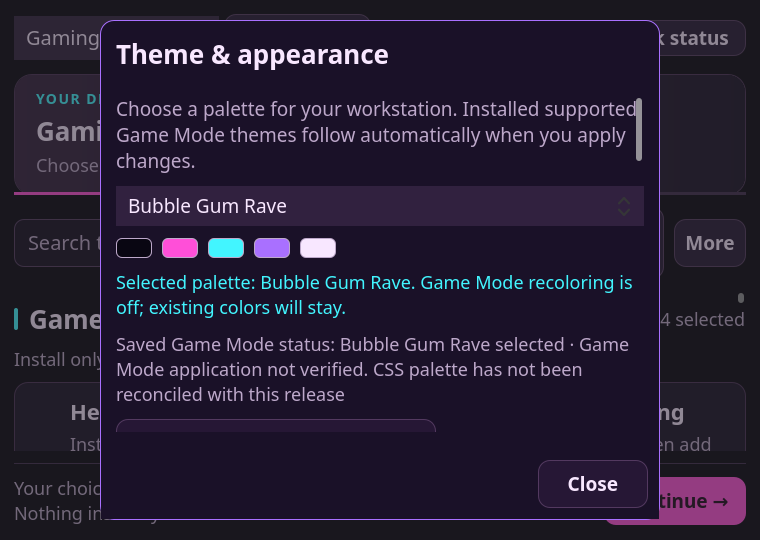
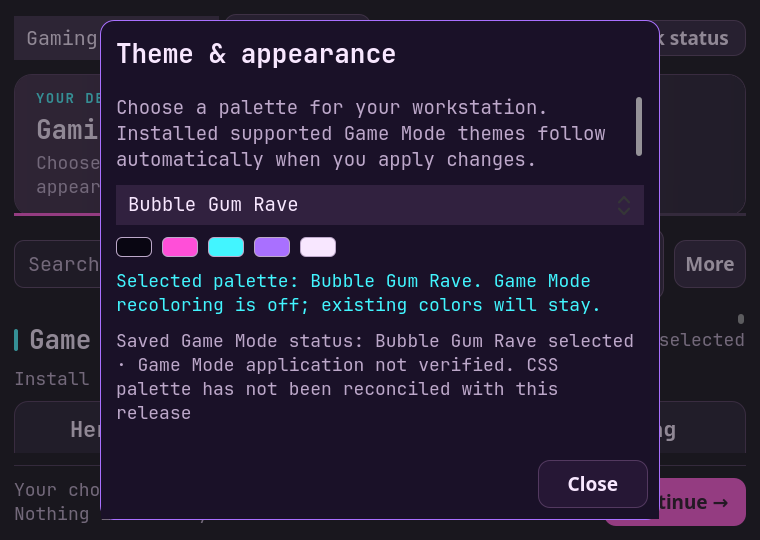
Use Deck Nerd Font and scope setup readiness labels

diff --git a/lib/deckctl/ui/Setup.qml b/lib/deckctl/ui/Setup.qml
@@ -19,7 +19,7 @@ ApplicationWindow {
     palette.buttonText: ink
     palette.base: window.tone("#150d21")
     palette.highlight: accent
-    font.family: "Noto Sans"
+    font.family: "JetBrainsMono Nerd Font Mono"
     font.pixelSize: window.px(15)
 
     readonly property color ink: window.tone("#f8e7ff")
@@ -1353,7 +1353,7 @@ ApplicationWindow {
                                         selectionColor: window.cyan; selectedTextColor: window.tone("#090612")
                                         Accessible.name: "Installer output. " + (window.consoleItem || "All steps")
                                         textFormat: TextEdit.PlainText; wrapMode: TextEdit.WrapAnywhere
-                                        color: window.ink; font.family: "monospace"; font.pixelSize: window.px(13); background: null
+                                        color: window.ink; font.family: "JetBrainsMono Nerd Font Mono"; font.pixelSize: window.px(13); background: null
 
                                     }
                                 }

diff --git a/tests/integration/setup_layout.qml b/tests/integration/setup_layout.qml
@@ -62,6 +62,7 @@ Item {
             }
         }
         function test_layout_and_output() {
+            compare(app.font.family,"JetBrainsMono Nerd Font Mono","The interface uses the installed Nerd Font family")
             tryCompare(app,"guideVisible",true)
             app.closeGuide(); tryCompare(app,"guideVisible",false)
             app.requestActivate(); tryCompare(app,"active",true)

diff --git a/tests/contract/test_production.py b/tests/contract/test_production.py
@@ -55,7 +55,7 @@ class Production(unittest.TestCase):
         target.unlink(); target.symlink_to(ROOT/'lib/deckctl/ui/Setup.qml')
         with self.assertRaisesRegex(ValueError, 'symlink'): runtime_package.validate(installed)
 
-    def test_css_inventory_detects_display_name_without_claiming_palette_ready(self):
+    def test_css_inventory_does_not_call_theme_receipt_drift_needs_setup(self):
         from deckctl import css_stack, setup_plan, setup_inventory, setup_install
         themes = Path(self.temp.name)/'themes'
         theme = themes/'CapyMenu (QAM)'; theme.mkdir(parents=True)
@@ -65,9 +65,11 @@ class Production(unittest.TestCase):
             installed, evidence = setup_plan.present(row)
             self.assertTrue(installed); self.assertFalse(evidence['configured'])
             local = setup_inventory.local(row)
-            self.assertEqual(local['label'], 'Installed · needs setup')
+            self.assertEqual(local['label'], 'Installed')
+            self.assertEqual(local['status'], 'INSTALLED')
+            self.assertIn('Theme files detected', local['note'])
             self.assertEqual(setup_plan.inspect(row,online=False)['action'], 'CONFIGURE')
-            self.assertEqual(setup_inventory.remote(row,local)['status'], 'NEEDS_SETUP')
+            self.assertEqual(setup_inventory.remote(row,local)['status'], 'INSTALLED')
             self.assertFalse(setup_install.verify(row))
             (theme/'theme.json').write_text('invalid')
             self.assertFalse(setup_plan.present(row)[0])

diff --git a/lib/deckctl/setup_inventory.py b/lib/deckctl/setup_inventory.py
@@ -26,11 +26,13 @@ def local(row):
     else:
         installed, evidence = setup_plan.present(row)
     state = evidence.get('status')
-    if installed and evidence.get('configured') is False:
-        label = 'Installed · needs setup'; status = 'NEEDS_SETUP'
+    followup = row.get('followup', '')
+    if installed and followup and evidence.get('configured') is False:
+        label = {'signin':'Needs sign-in', 'pairing':'Needs pairing', 'setup':'Needs setup'}.get(followup, 'Needs setup')
+        status = 'NEEDS_SETUP'
     elif installed:
         label = 'Installed'; status = 'INSTALLED'
-    elif state in ('CONFIG_REQUIRED','DEGRADED','API_READY','TEST_REQUIRED','STOPPED_OR_UNREACHABLE','TEST_FAILED','NOT_CONFIGURED') or evidence.get('configuration'):
+    elif followup and state in ('CONFIG_REQUIRED','DEGRADED','API_READY','TEST_REQUIRED','STOPPED_OR_UNREACHABLE','TEST_FAILED','NOT_CONFIGURED'):
         label = 'Needs setup'; status = 'NEEDS_SETUP'
     elif state == 'FAILED':
         label = 'Needs attention'; status = 'FAILED'

diff --git a/docs/reviews/setup-layout/README.md b/docs/reviews/setup-layout/README.md
@@ -17,6 +17,7 @@ replaced. No additional runtime dependencies or background services were added.
 | P1 | Long dialog content and larger fonts could clip actions or overflow the scroll viewport. | Shared fitted/message dialogs, wrapped actions, dynamic checkbox/banner height, fixed dialog actions, explicit drawer insets, and actual scroll-viewport widths in [Setup.qml](../../../lib/deckctl/ui/Setup.qml). Focused controls scroll into view. |
 | P2 | Scheduled/completed rows and logs competed with immediate activity evidence. | Deck Activity precedes Output Console. The queue starts collapsed with attention, scheduled, and completed counts. Active work and pause/cancel controls remain independent. Expansion and item details survive refresh/collapse. |
 | P2 | Flat inventory order buried failures and repeated lengthy details. | `statusGroups` groups attention, updates, unknown/checking, installed, and optional missing tools; names sort alphabetically within groups. Details expand per item and retain state. Missing optional tools are neutral. Missing-password guidance takes priority; healthy system facts are below the groups. |
+| P2 | CSS receipt drift could label an installed theme “Needs setup,” even when its follow-up is not a sign-in, pairing, or vendor setup. | [setup_inventory.py](../../../lib/deckctl/setup_inventory.py) now reserves that status for declared follow-ups. Art Hero remains Installed when only its saved CSS receipt needs review; the receipt note stays available in expanded diagnostics. |
 | P2 | Late console callbacks could overwrite newer selections; rotation could select unrelated text or leave the viewport blank. | Record/navigation checks preserve newer interaction. A new source or rotated record clears old offsets and resets the viewport. A recovered read clears its warning. Next error highlights within the full record rather than filtering it. |
 
 The console remains a read-only diagnostic viewer. Explicit interactive vendor
@@ -29,6 +30,8 @@ removed, the UI explicitly describes the limit instead of claiming completeness.
 ## Rendered evidence
 
 These are real offscreen Qt renders of synthetic fixtures, not live installs.
+The setup UI and output console use the installed `JetBrainsMono Nerd Font Mono`
+family; system fallback applies on machines without that font.
 The long-text fixtures use **1.35× actual font metrics in the same logical window**,
 not merely display DPI scaling. Normal UI text remains at its current scale;
 `textScale` is a bounded presentation/testing property (1.0–1.35).
